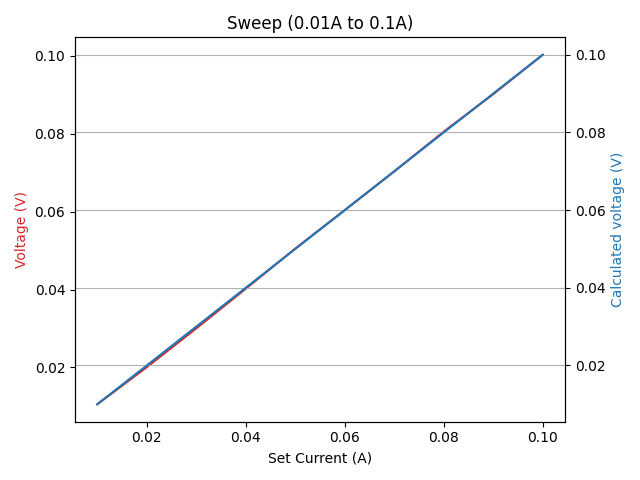
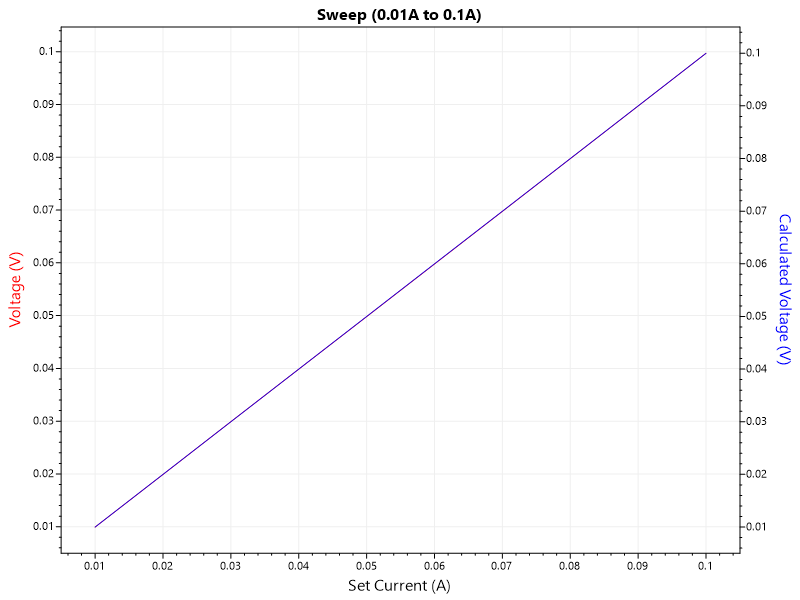
Updated MeasuringDcStaircaseVoltages graph

diff --git a/src/Vektrex.SpikeSafe.CSharp.Samples/ApplicationSpecificExamples/MeasuringDcStaircaseVoltages/MeasuringDcStaircaseVoltages.cs b/src/Vektrex.SpikeSafe.CSharp.Samples/ApplicationSpecificExamples/MeasuringDcStaircaseVoltages/MeasuringDcStaircaseVoltages.cs
@@ -22,14 +22,14 @@ namespace Vektrex.SpikeSafe.CSharp.Samples.ApplicationSpecificExamples.Measuring
             // start of main program
             try
             {
-                _log.Info("MeasuringDcStaircaseVoltages.py started.");
+                _log.Info("MeasuringDcStaircaseVoltages.Run() started.");
 
                 // stair case parameters
-                int step_count = 10;
-                double start_current_A = 0.010;
-                double stop_current_A = 0.100;
-                double step_size_A = (stop_current_A - start_current_A) / (step_count - 1);
-                double load_ohm_value = 1;
+                int stepCount = 10;
+                double startCurrentAmps = 0.010;
+                double stopCurrentAmps = 0.100;
+                double stepSizeAmps = (stopCurrentAmps - startCurrentAmps) / (stepCount - 1);
+                double loadOhmValue = 1;
                     
                 // instantiate new TcpSocket to connect to PSMU
                 TcpSocket tcpSocket = new TcpSocket();
@@ -53,7 +53,7 @@ namespace Vektrex.SpikeSafe.CSharp.Samples.ApplicationSpecificExamples.Measuring
                 ReadAllEvents.LogAllEvents(tcpSocket);
 
                 // set Channel 1's current to start current and check for all events
-                tcpSocket.SendScpiCommand(string.Format("SOUR1:CURR {0}", start_current_A));
+                tcpSocket.SendScpiCommand(string.Format("SOUR1:CURR {0}", startCurrentAmps));
                 ReadAllEvents.LogAllEvents(tcpSocket);
 
                 // set Channel 1's Ramp mode to Fast and check for all events
@@ -75,7 +75,7 @@ namespace Vektrex.SpikeSafe.CSharp.Samples.ApplicationSpecificExamples.Measuring
                 ReadAllEvents.LogAllEvents(tcpSocket);
 
                 // set Digitizer Trigger Count to step count and check for all events
-                tcpSocket.SendScpiCommand(string.Format("VOLT:TRIG:COUN {0}", step_count));
+                tcpSocket.SendScpiCommand(string.Format("VOLT:TRIG:COUN {0}", stepCount));
                 ReadAllEvents.LogAllEvents(tcpSocket);
 
                 // set Digitizer Read Count to 1 and check for all events
@@ -95,16 +95,16 @@ namespace Vektrex.SpikeSafe.CSharp.Samples.ApplicationSpecificExamples.Measuring
                 ReadAllEvents.LogAllEvents(tcpSocket);
 
                 // start DC staircase current supply and voltage measurement per step
-                double set_current = start_current_A;
+                double setCurrent = startCurrentAmps;
                 double currentIncrementDouble = 0.0;
-                for(int step = 0; step < step_count; step++)
+                for(int step = 0; step < stepCount; step++)
                 {
                     // step up Channel 1 current to next step
-                    set_current = Math.Round(set_current + currentIncrementDouble, 3);
-                    string cmdStr = "SOUR1:TRIG " + set_current.ToString();
+                    setCurrent = Math.Round(setCurrent + currentIncrementDouble, 3);
+                    string cmdStr = "SOUR1:TRIG " + setCurrent.ToString();
                     // send Set Current command for next step
                     tcpSocket.SendScpiCommand(cmdStr);
-                    currentIncrementDouble = step_size_A;
+                    currentIncrementDouble = stepSizeAmps;
                 }
                     
                 // check for all events
@@ -114,7 +114,7 @@ namespace Vektrex.SpikeSafe.CSharp.Samples.ApplicationSpecificExamples.Measuring
                 DigitizerDataFetch.WaitForNewVoltageData(tcpSocket, 0.5);
 
                 // Fetch Data and check for all events
-                List<DigitizerData> digitizer_data = DigitizerDataFetch.FetchVoltageData(tcpSocket);
+                List<DigitizerData> digitizerData = DigitizerDataFetch.FetchVoltageData(tcpSocket);
                 ReadAllEvents.LogAllEvents(tcpSocket);
 
                 // disconnect from PSMU    
@@ -122,44 +122,37 @@ namespace Vektrex.SpikeSafe.CSharp.Samples.ApplicationSpecificExamples.Measuring
 
                 // put the fetched data in a plottable data format
                 var plt = new ScottPlot.Plot();
-                List<double> voltage_readings = new List<double>();
-                List<double> current_steps = new List<double>();
-                List<double> voltage_calculated_readings = new List<double>();
-                List<double> voltage_data_log_array = new List<double>();
+                List<double> voltageReadings = new List<double>();
+                List<double> currentSteps = new List<double>();
+                List<double> voltageCalculatedReadings = new List<double>();
                 _log.Info("Sample Number  |   Current     |       Vf   |    Vf Calculated");
                 _log.Info("-------------  | ------------- | ---------- | ----------------");
-                foreach (DigitizerData dd in digitizer_data)
+                foreach (DigitizerData dd in digitizerData)
                 {
-                    voltage_readings.Add(dd.VoltageReading);
-                    current_steps.Add(start_current_A + step_size_A * (dd.SampleNumber - 1));
-                    voltage_data_log_array.Add(dd.VoltageReading);
-                    voltage_calculated_readings.Add((start_current_A + step_size_A * (dd.SampleNumber - 1))*load_ohm_value);
-                    double current = start_current_A + step_size_A * (dd.SampleNumber - 1);
-                    double voltage_calculated = (start_current_A + step_size_A * (dd.SampleNumber - 1))*load_ohm_value;
-                    _log.Info("      %s      |      %.3f    |    %.10f   |   %.3f", dd.SampleNumber, current, dd.VoltageReading, voltage_calculated);
+                    voltageReadings.Add(dd.VoltageReading);
+                    currentSteps.Add(startCurrentAmps + stepSizeAmps * (dd.SampleNumber - 1));
+                    voltageCalculatedReadings.Add((startCurrentAmps + stepSizeAmps * (dd.SampleNumber - 1))*loadOhmValue);
+                    double current = startCurrentAmps + stepSizeAmps * (dd.SampleNumber - 1);
+                    double voltageCalculated = (startCurrentAmps + stepSizeAmps * (dd.SampleNumber - 1))*loadOhmValue;
+                    _log.Info("      {0}      |      {1}    |    {2}   |   {3}", dd.SampleNumber, current.ToString("0.000"), dd.VoltageReading.ToString("0.0000000000"), String.Format("{0:0.000}", voltageCalculated));
                 }
 
-                // plot the pulse shape using the fetched voltage readings and the light measurement readings overlaid
-                // graph, voltage_axis = plt.subplots();
-
                 // configure the voltage data
-                var voltage_readings_line = plt.AddScatterLines(current_steps.ToArray(), voltage_readings.ToArray(), Color.Red, 1);
-                voltage_readings_line.YAxisIndex = 0;
+                var voltageReadingsLine = plt.AddScatterLines(currentSteps.ToArray(), voltageReadings.ToArray(), Color.Red, 1);
+                voltageReadingsLine.YAxisIndex = 0;
                 plt.YAxis.Label("Voltage (V)", Color.Red);
-                plt.YAxis.Color(voltage_readings_line.Color); 
                 plt.XAxis.Label("Set Current (A)");               
                 
                 // configure the calculated voltage data
-                var voltage_calculated_readings_line = plt.AddScatterLines(current_steps.ToArray(), voltage_calculated_readings.ToArray(), Color.Blue, 1);
-                voltage_calculated_readings_line.YAxisIndex = 1;
+                var voltageCalculatedReadingsLine = plt.AddScatterLines(currentSteps.ToArray(), voltageCalculatedReadings.ToArray(), Color.Blue, 1);
+                voltageCalculatedReadingsLine.YAxisIndex = 1;
                 plt.YAxis2.Label("Calculated Voltage (V)", Color.Blue);
-                plt.YAxis2.Color(voltage_calculated_readings_line.Color);
                 plt.YAxis2.Ticks(true);
 
-                plt.Title(string.Format("Sweep ({0}A to {1}A)", start_current_A, stop_current_A));
+                plt.Title(string.Format("Sweep ({0}A to {1}A)", startCurrentAmps, stopCurrentAmps));
                 plt.SaveFig(Path.Combine(Path.GetDirectoryName(Assembly.GetExecutingAssembly().Location),"dc_staircase_graph.png"));
 
-                _log.Info("MeasuringDcStaircaseVoltages.py completed.\n");
+                _log.Info("MeasuringDcStaircaseVoltages.Run() completed.\n");
             }
             catch(SpikeSafeException e)
             {
